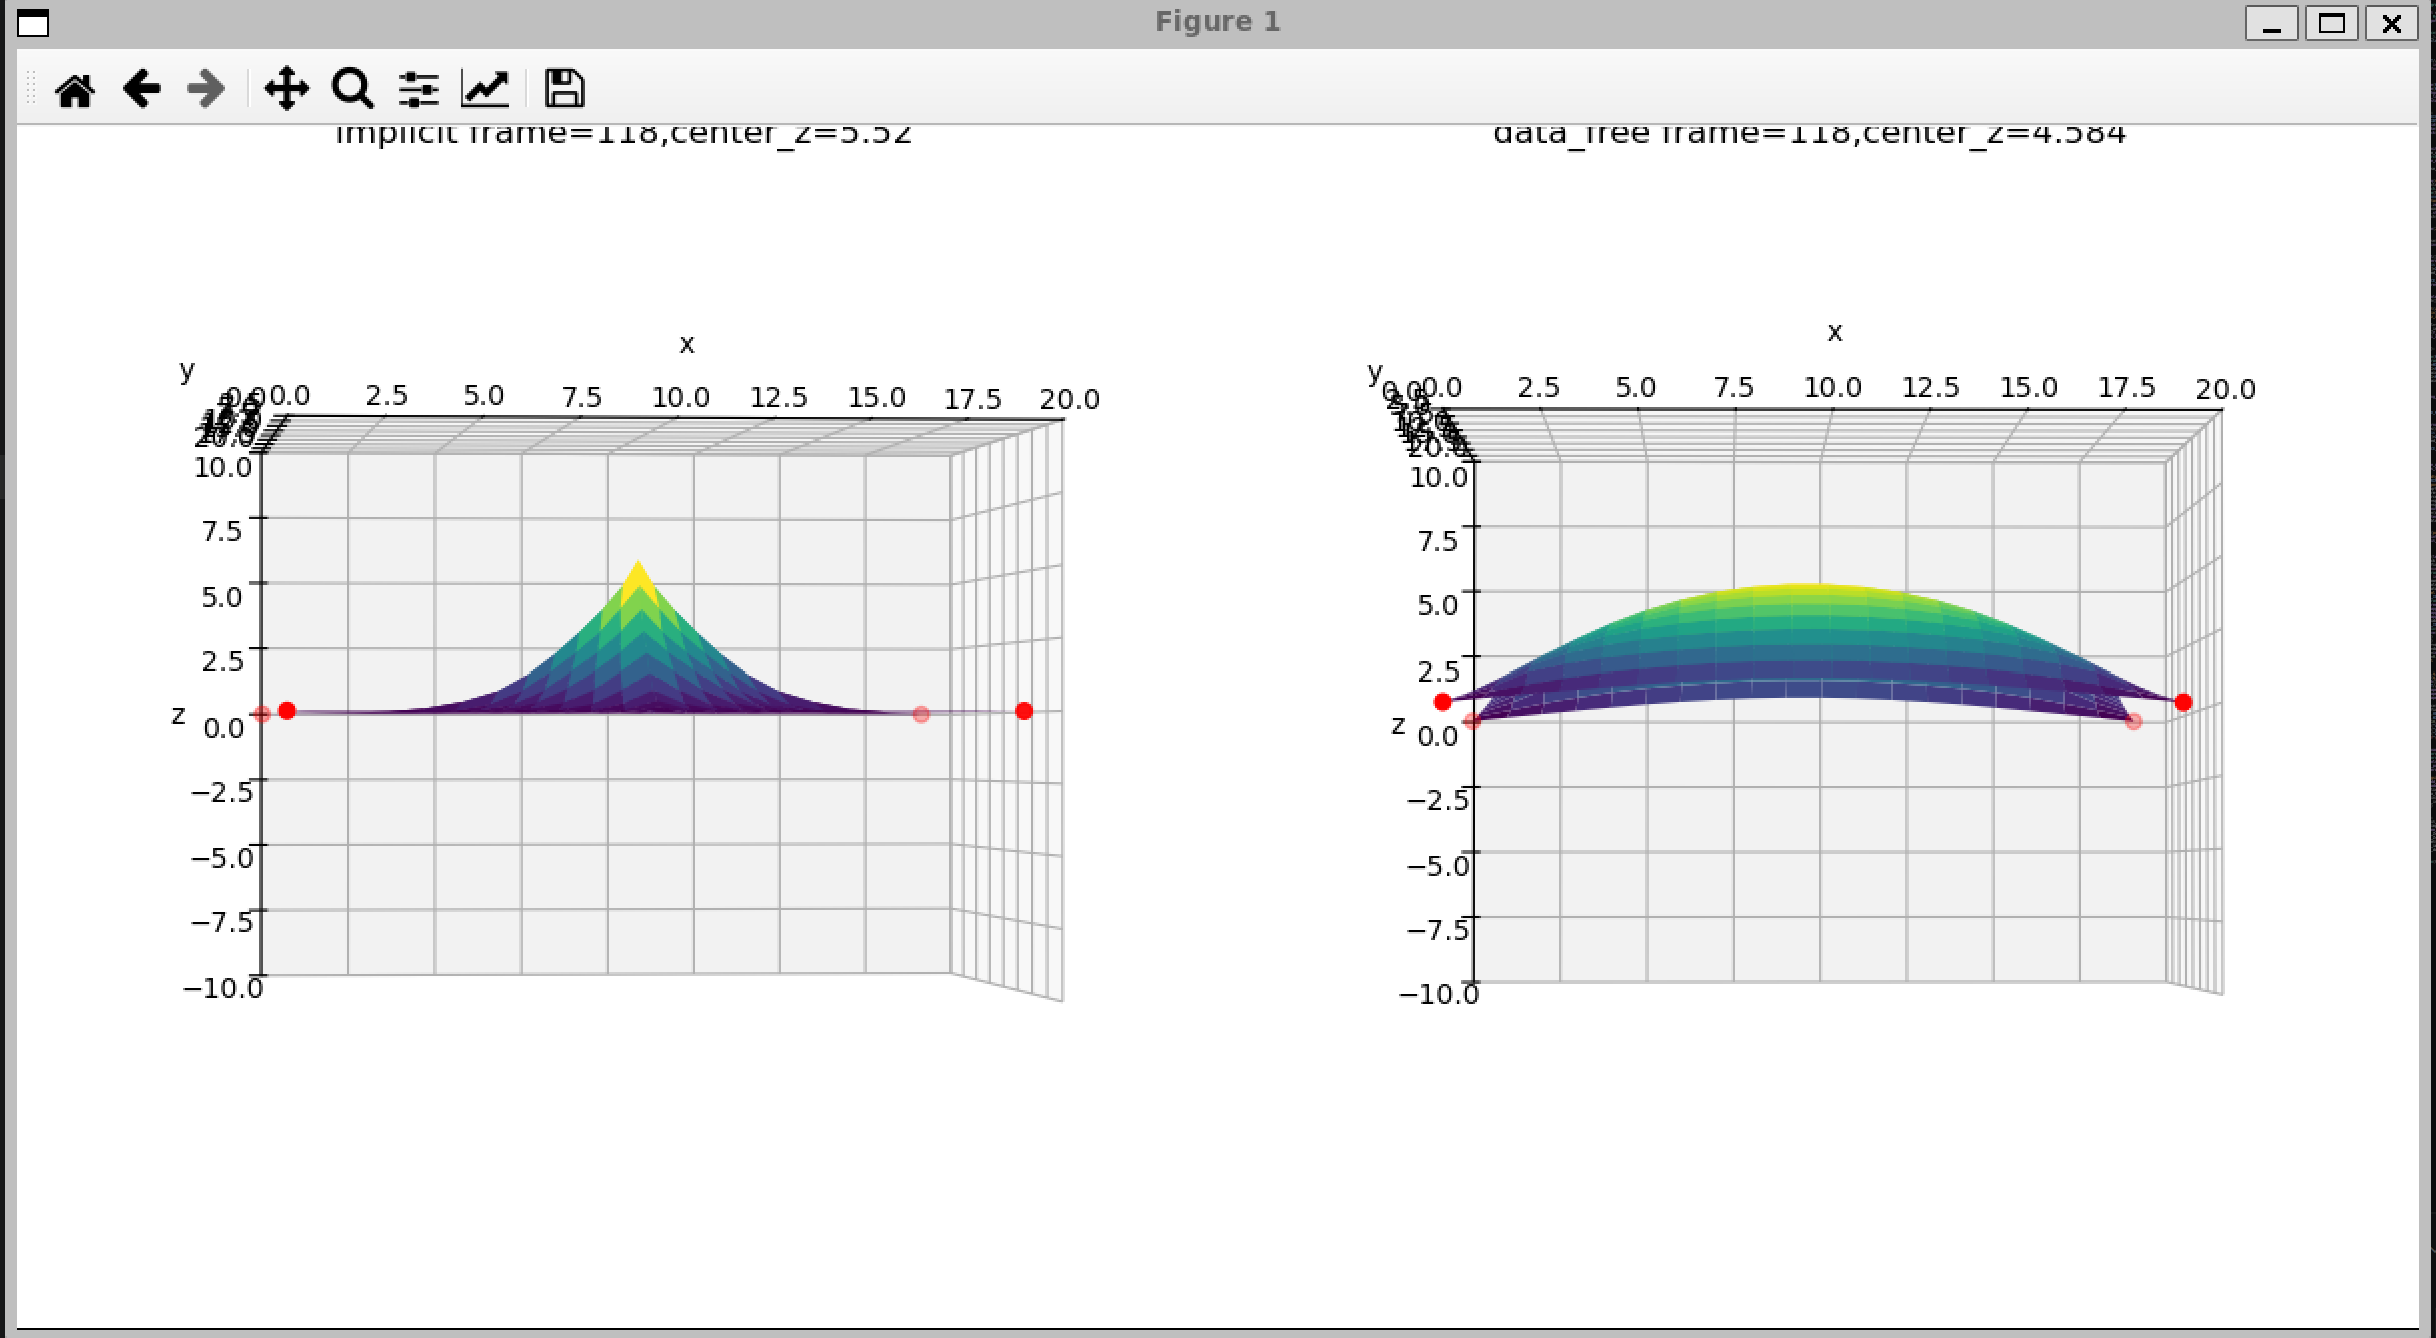
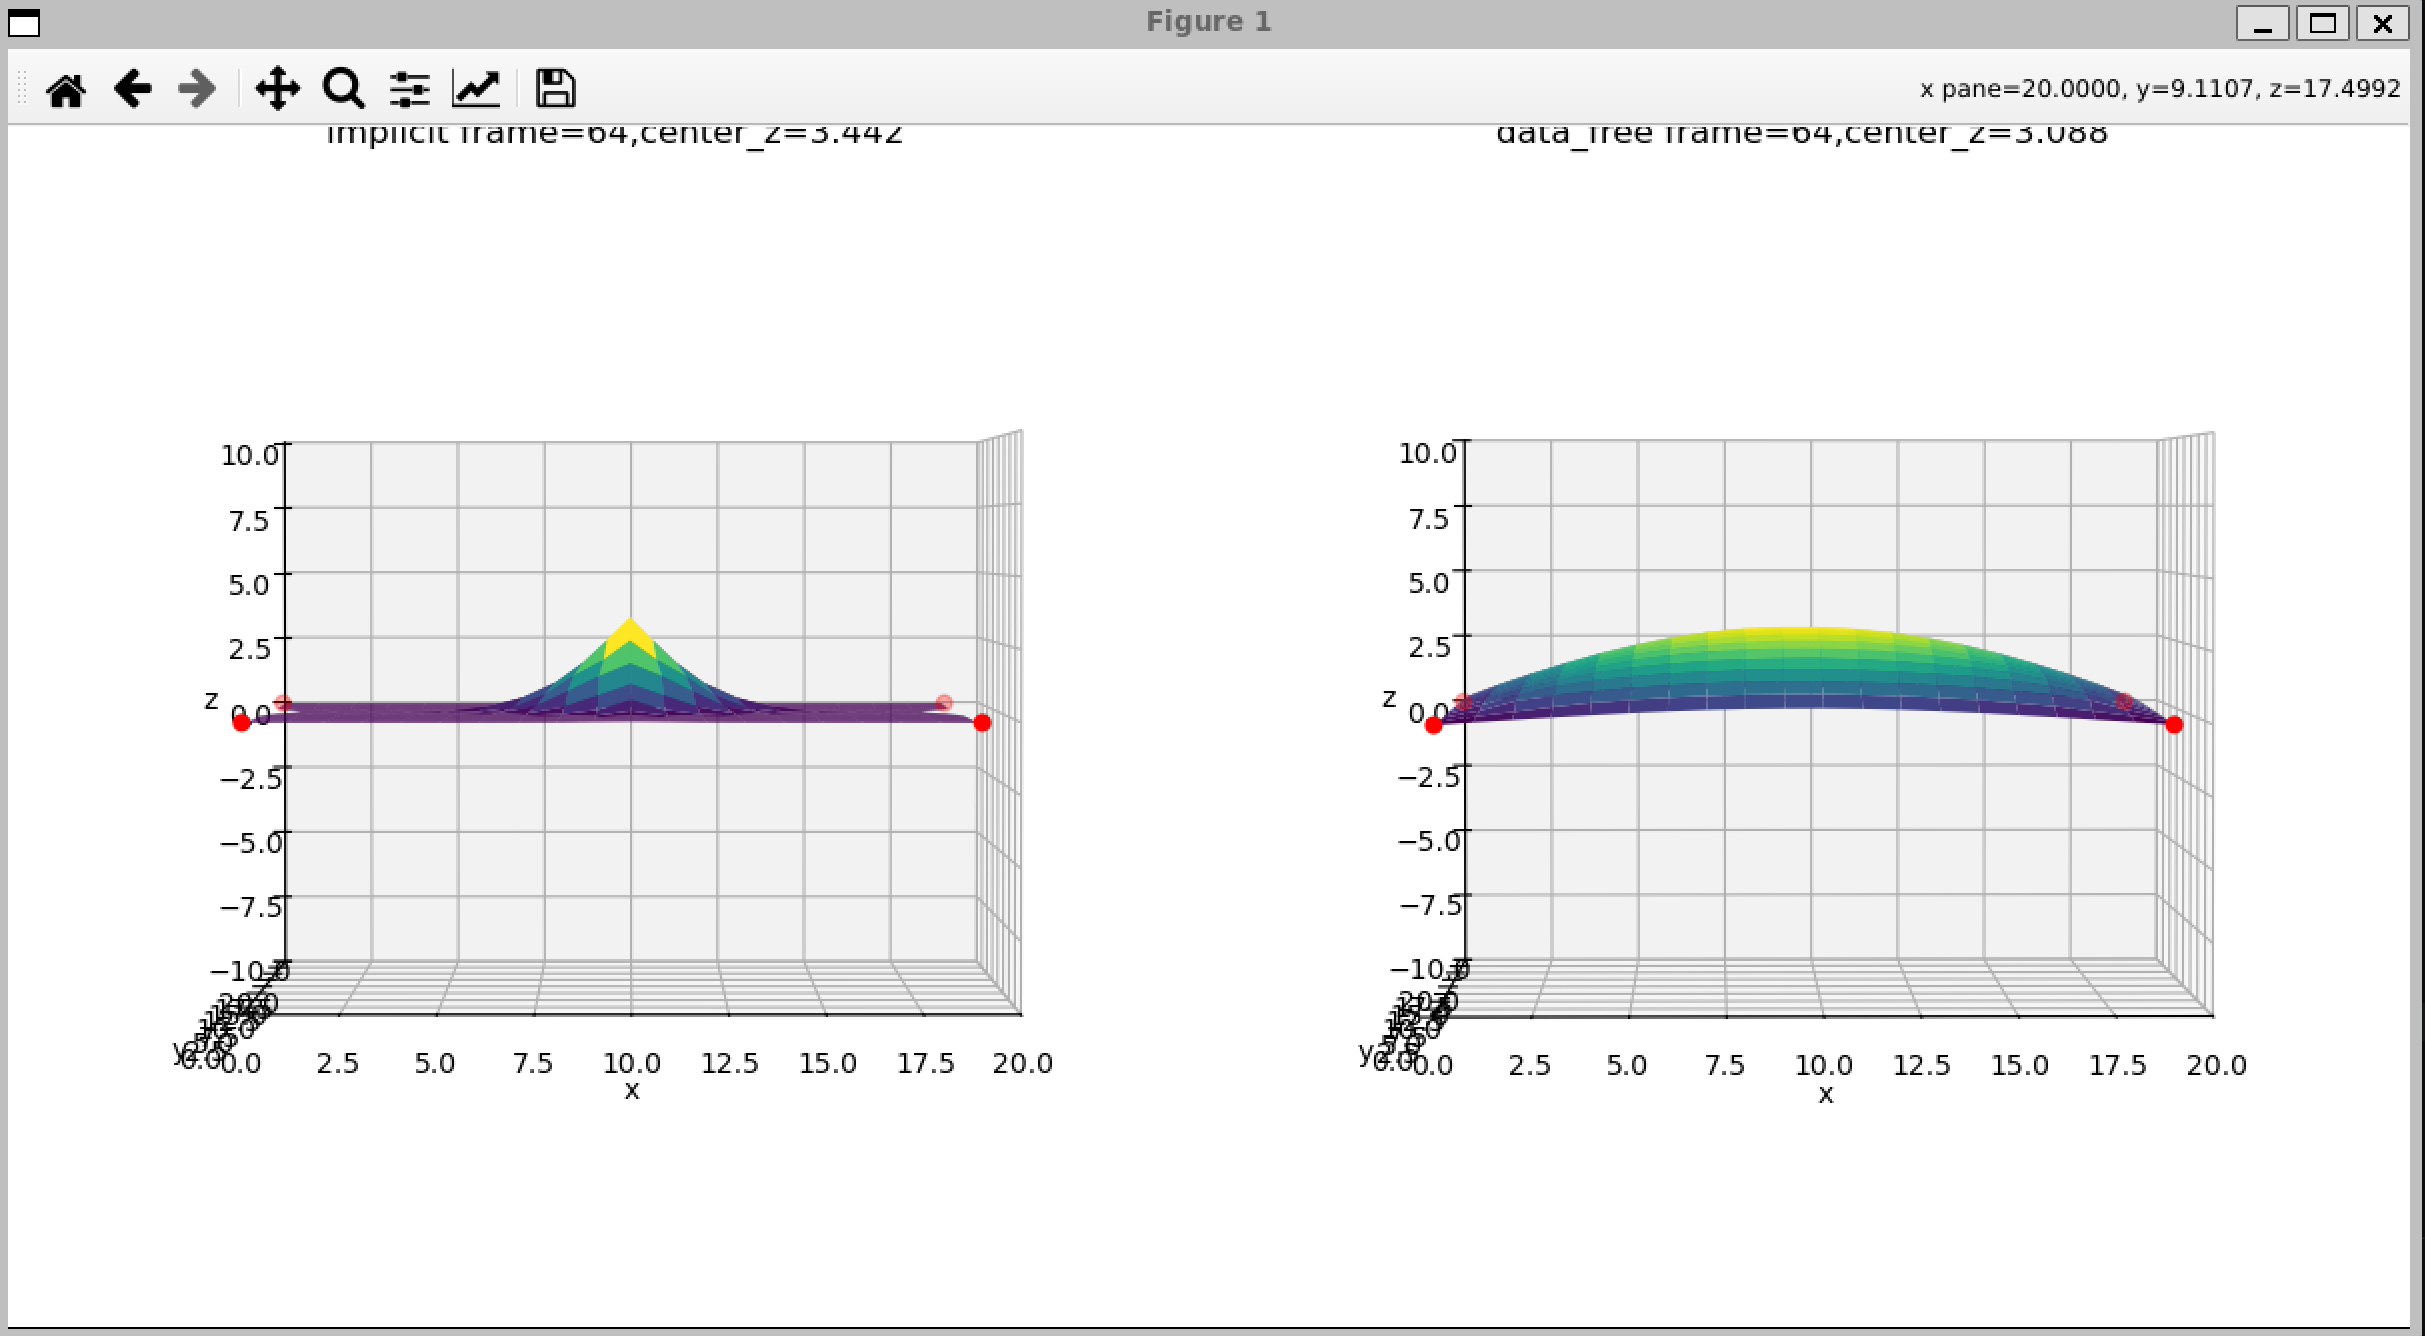
update
严格按照原论文进行实验，结果不如我自己设的loss

diff --git a/cloth2d/train.py b/cloth2d/train.py
@@ -3,6 +3,7 @@ import torch.nn as nn
 from layer import MyNet
 from config import *
 from loss import loss
+import math
 device=torch.device("cuda" if torch.cuda.is_available() else "cpu")
 def init_pos():
     i=torch.arange(HEIGHT,dtype=torch.float32,device=device)
@@ -12,6 +13,7 @@ def init_pos():
     return torch.stack((I.T,J.T,K),dim=-1).reshape(-1,3)
 base_output=init_pos()
 net=MyNet(base_output,in_dim,out_dim,hid_dim).to(device)
+#net.load_state_dict(torch.load("cloth2d/t_loss_net/indim-20-190000.pt",map_location=device))
 
 optimizer=torch.optim.AdamW(
     net.parameters(),
@@ -19,11 +21,17 @@ optimizer=torch.optim.AdamW(
     weight_decay=1e-4
 )
 
-num_epoches=500000
+num_epoches=200000
 batch_size=32
 
-for epoch in range(num_epoches):
-    t_schedule=epoch/num_epoches
+scheduler=torch.optim.lr_scheduler.CosineAnnealingLR(
+    optimizer,
+    T_max=num_epoches,
+    eta_min=1e-5
+)
+
+for epoch in range(0,num_epoches):
+    t_schedule=min(1.0,2.0*epoch/num_epoches)
     z=torch.randn(batch_size,in_dim,device=device,dtype=torch.float32)
     loss_value=loss(
         net=net,z=z,t_schedule=t_schedule
@@ -31,7 +39,10 @@ for epoch in range(num_epoches):
     optimizer.zero_grad()
     loss_value.backward()
     optimizer.step()
+    scheduler.step()
     if epoch%1000==0:
         print(f"{epoch} {loss_value.item()}")
     if epoch%10000==0:
-        torch.save(net.state_dict(),f"cloth2d/net/indim-40-{epoch}.pt")
+        torch.save(net.state_dict(),f"cloth2d/t_net/indim-20-{epoch}.pt")
+        
+torch.save(net.state_dict(),f"cloth2d/t_net/indim-20-{num_epoches}.pt")

diff --git a/cloth2d/loss.py b/cloth2d/loss.py
@@ -18,12 +18,12 @@ def potential(q):
     return 0.5*k_hook*(energy_x+energy_y)# [B]
 
 def loss(net:nn.Module,z,t_schedule):
-    q=net(z)
+    q=net(z,t_schedule=t_schedule)
     E_spring=potential(q)
     new_q=q.reshape(-1,HEIGHT*WIDTH,3)
     diff_q=new_q[None,:,:,:]-new_q[:,None,:,:]# [B,B,WH,3]
     diff_x=z[None,:,:]-z[:,None,:]# [B,B,in_dim]
     dist_q=(diff_q**2).sum(dim=(2,3))
     dist_x=(diff_x**2).sum(dim=-1)
-    E_norm=(torch.log(t_schedule*dist_x*sigma+eps)-torch.log(dist_q+eps)).mean(dim=-1)
+    E_norm=((torch.log(t_schedule*dist_x*sigma+eps)-torch.log(dist_q+eps))**2).mean(dim=-1)
     return (E_spring+norm2weight*E_norm).mean(dim=-1)

diff --git a/cloth2d/plot.py b/cloth2d/plot.py
@@ -53,7 +53,7 @@ def load_net():
 def solve_z_from_q(net,z,target_q):
     z=z.detach().clone().requires_grad_(True)
     optimizer=torch.optim.AdamW([z],lr=1e-2,weight_decay=1e-4)
-    for _ in range(50000):
+    for _ in range(10000):
         q=net(z[None,:])[0]
         loss=((q-target_q)**2).mean()
         optimizer.zero_grad()

diff --git a/cloth2d/readme.md b/cloth2d/readme.md
@@ -1,0 +1,35 @@
+# 文件夹说明
+
+fix_t_loss_net
+
+```python
+t_schedule=1
+E_norm=((torch.log(t_schedule*dist_x*sigma+eps)-torch.log(dist_q+eps))).mean(dim=-1)
+```
+
+fix_t_net
+
+```python
+t_schedule=1
+E_norm=((torch.log(t_schedule*dist_x*sigma+eps)-torch.log(dist_q+eps))**2).mean(dim=-1)
+```
+
+t_loss_net
+
+```python
+t_schedule=min(1.0,2.0*epoch/num_epoches)
+E_norm=((torch.log(t_schedule*dist_x*sigma+eps)-torch.log(dist_q+eps))).mean(dim=-1)
+```
+
+t_net
+
+```python
+t_schedule=min(1.0,2.0*epoch/num_epoches)
+E_norm=((torch.log(t_schedule*dist_x*sigma+eps)-torch.log(dist_q+eps))**2).mean(dim=-1)
+```
+
+实验结果是，t_loss_net和fix_t_loss_net显著优于另外两个
+
+并且fix_t_loss_net优于t_loss_net，前者具有优秀的中心对称性，而后者没有
+
+而原论文中的正是t_net，实际在这个网络下实验中原论文中的仿真结果完全非物理，说明这个网络在这个弹簧系统下有问题

diff --git a/cloth2d/experiment.md b/cloth2d/experiment.md
@@ -53,9 +53,13 @@
 
 周期100k左右已经足够，更大的训练周期对误差没有显著改善
 
+动力学实验中，400k迭代后雅各比伪逆出现了严重退化，说明更多的迭代次数可能已经过拟合
+
 ## indim分析
 
-indim=20结果显著优于indim=40，indim=40时在z轴正拉力的情况下直接出现了向z轴反方向的位移，甚至没有重回z轴正向
+indim=20结果显著优于indim=40
+
+indim=40时严重病态
 
 
 ## 理论不足